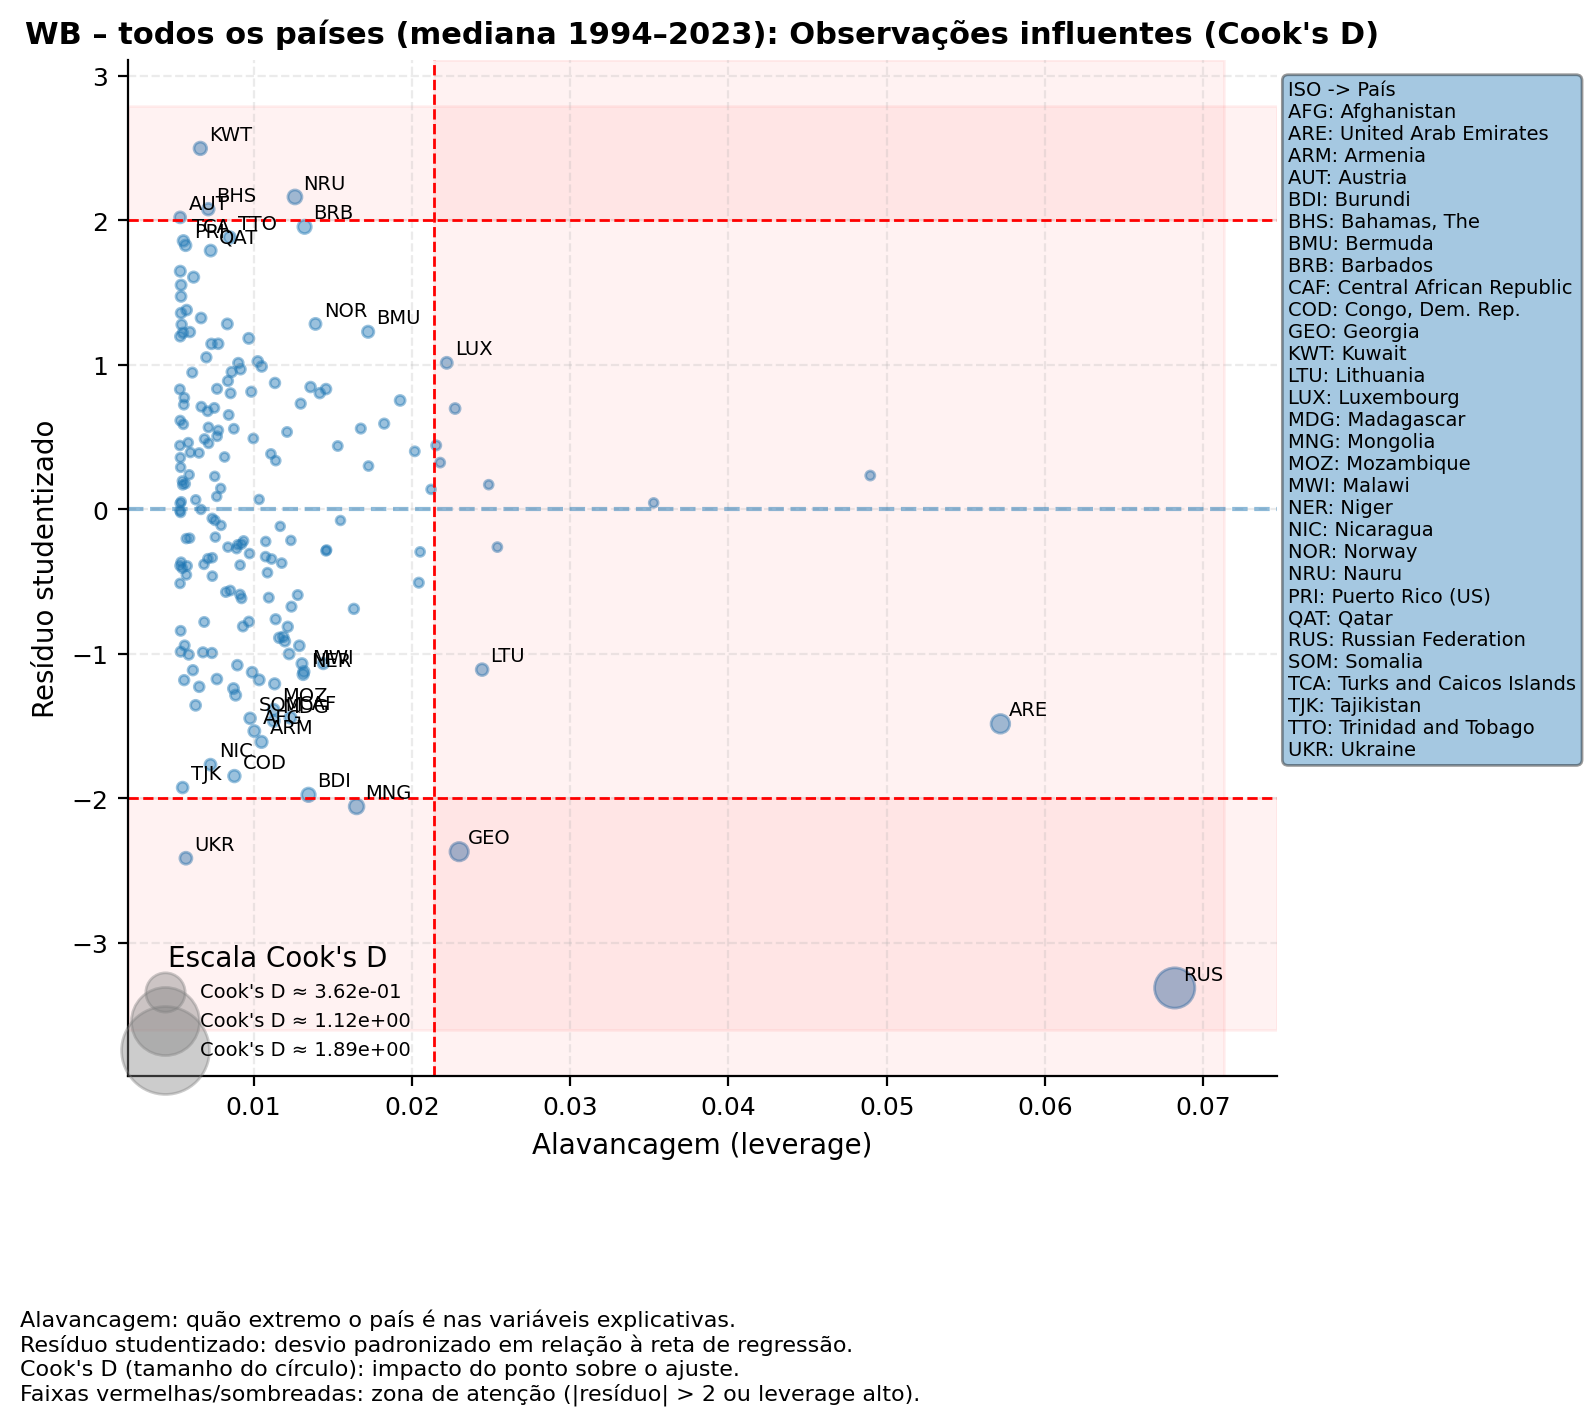
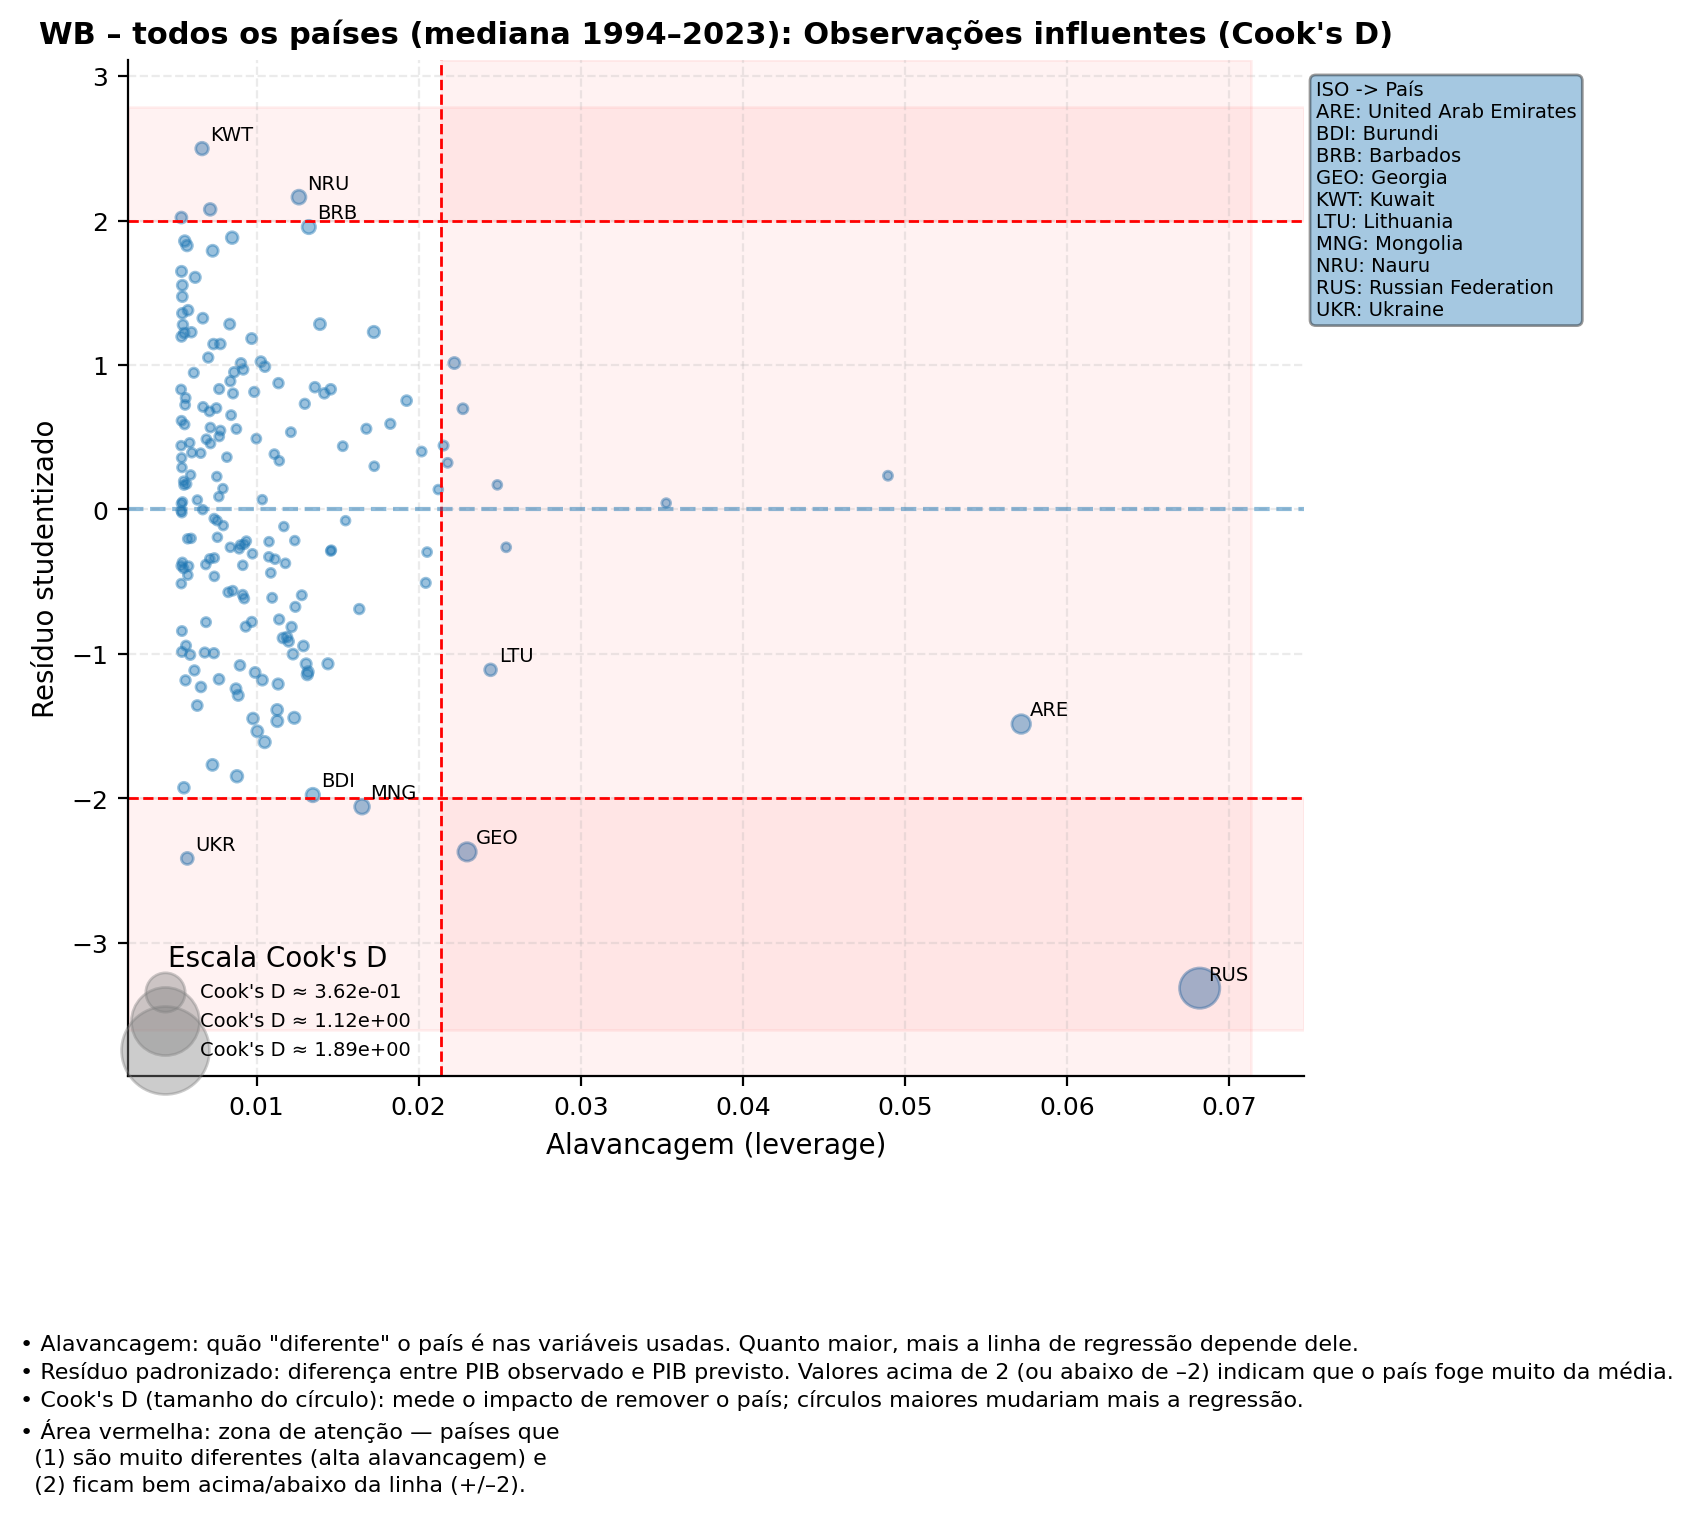
Improved readability for charts and refined some analysis.

diff --git a/CS/Aula2/Exercicios/lista1/lista_1_Andre_Katsurada.py b/CS/Aula2/Exercicios/lista1/lista_1_Andre_Katsurada.py
@@ -959,7 +959,7 @@ class Ex10GeracaoDados(Exercicio):
         controls: list[str],
         label: str,
         slug_prefix: str,
-        max_labels: int = 30,
+        max_labels: int = 10,
     ) -> None:
         """
         Influência:
@@ -984,7 +984,7 @@ class Ex10GeracaoDados(Exercicio):
 
         fig = plt.figure(figsize=(8, 6))
         ax = plt.gca()
-        fig.subplots_adjust(bottom=0.28)
+        fig.subplots_adjust(bottom=0.34)
         sc = ax.scatter(lev, stud, s=size, alpha=alpha)
 
         #Adiciona linhas de referência para pontos potencialmente influentes
@@ -1028,14 +1028,15 @@ class Ex10GeracaoDados(Exercicio):
         #Legendas explicativas detalhadas
         plt.figtext(
             0.01,
-            -0.1,
-            "Alavancagem: quão extremo o país é nas variáveis explicativas.\n"
-            "Resíduo studentizado: desvio padronizado em relação à reta de regressão.\n"
-            "Cook's D (tamanho do círculo): impacto do ponto sobre o ajuste.\n"
-            "Faixas vermelhas/sombreadas: zona de atenção (|resíduo| > 2 ou leverage alto).",
+            -0.12,
+            "• Alavancagem: quão \"diferente\" o país é nas variáveis usadas. Quanto maior, mais a linha de regressão depende dele.\n"
+            "• Resíduo padronizado: diferença entre PIB observado e PIB previsto. Valores acima de 2 (ou abaixo de –2) indicam que o país foge muito da média.\n"
+            "• Cook's D (tamanho do círculo): mede o impacto de remover o país; círculos maiores mudariam mais a regressão.\n"
+            "• Área vermelha: zona de atenção — países que \n  (1) são muito diferentes (alta alavancagem) e \n  (2) ficam bem acima/abaixo da linha (+/–2).",
             ha="left",
             va="top",
             fontsize=8,
+            linespacing=1.4,
         )
         
         out = self._FIGDIR / f"{slug_prefix}_ols_influence.png"
